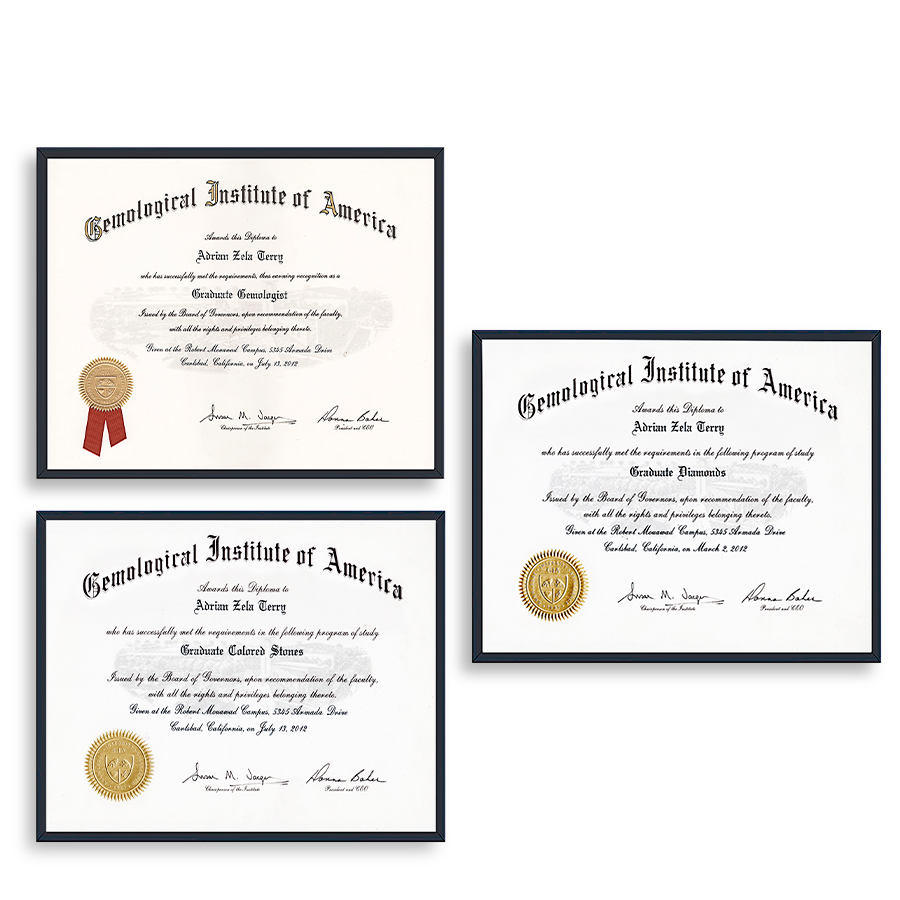
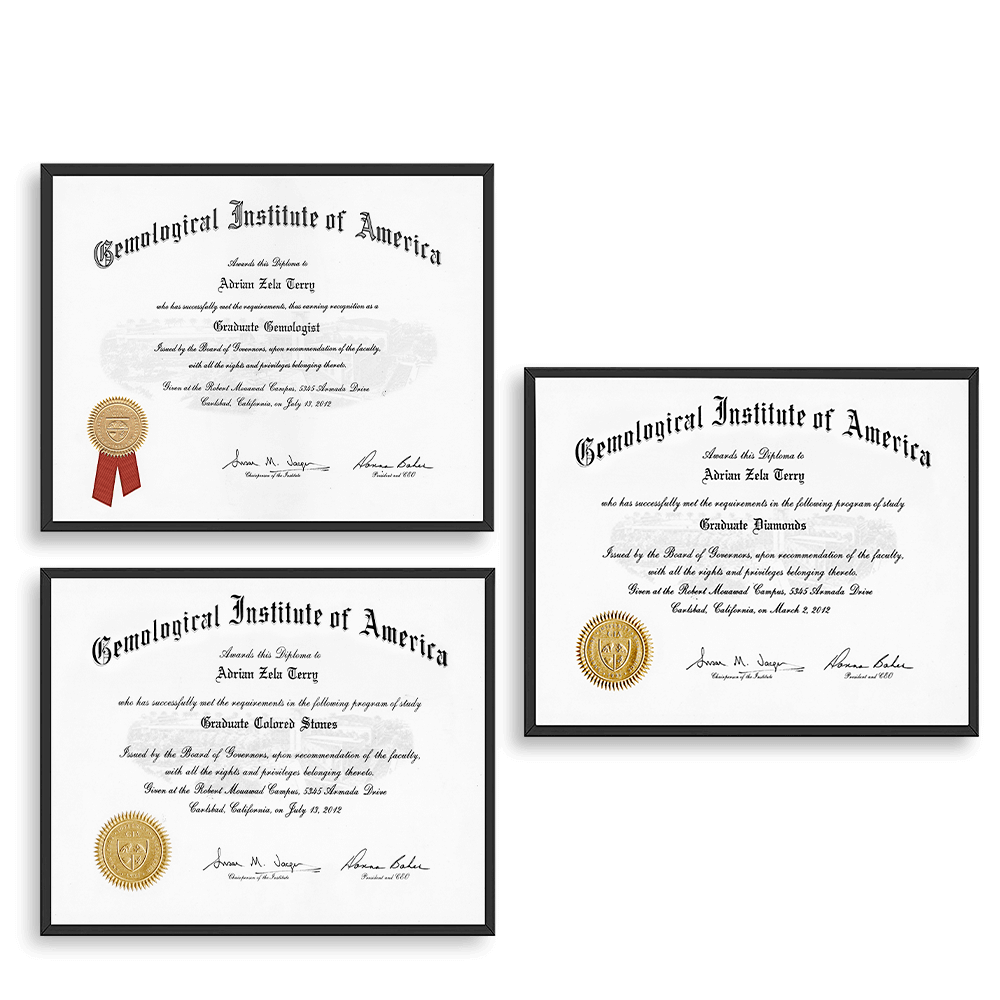
certificaciones

diff --git a/client/src/components/Certificaciones.jsx b/client/src/components/Certificaciones.jsx
@@ -5,7 +5,7 @@ import gia from "../img/GIA_logo.png"
 import giaInst from "../img/GIA_PNG.png"
 import giaInstSpace from "../img/DIAMANTE_GIA-img1.png"
 
-import diamante from '../img/fondo-certificaciones-diamante.png'
+import diamante from '../img/CERTIFICACIONES_gia.png'
 import diamante1 from '../img/diplomas/CERTIFICACIONES_gerardo.png'
 import diamante2 from '../img/diplomas/CERTIFICACIONES_gino.png'
 import diamante3 from '../img/diplomas/CERTIFICACIONES_adrian.png'
